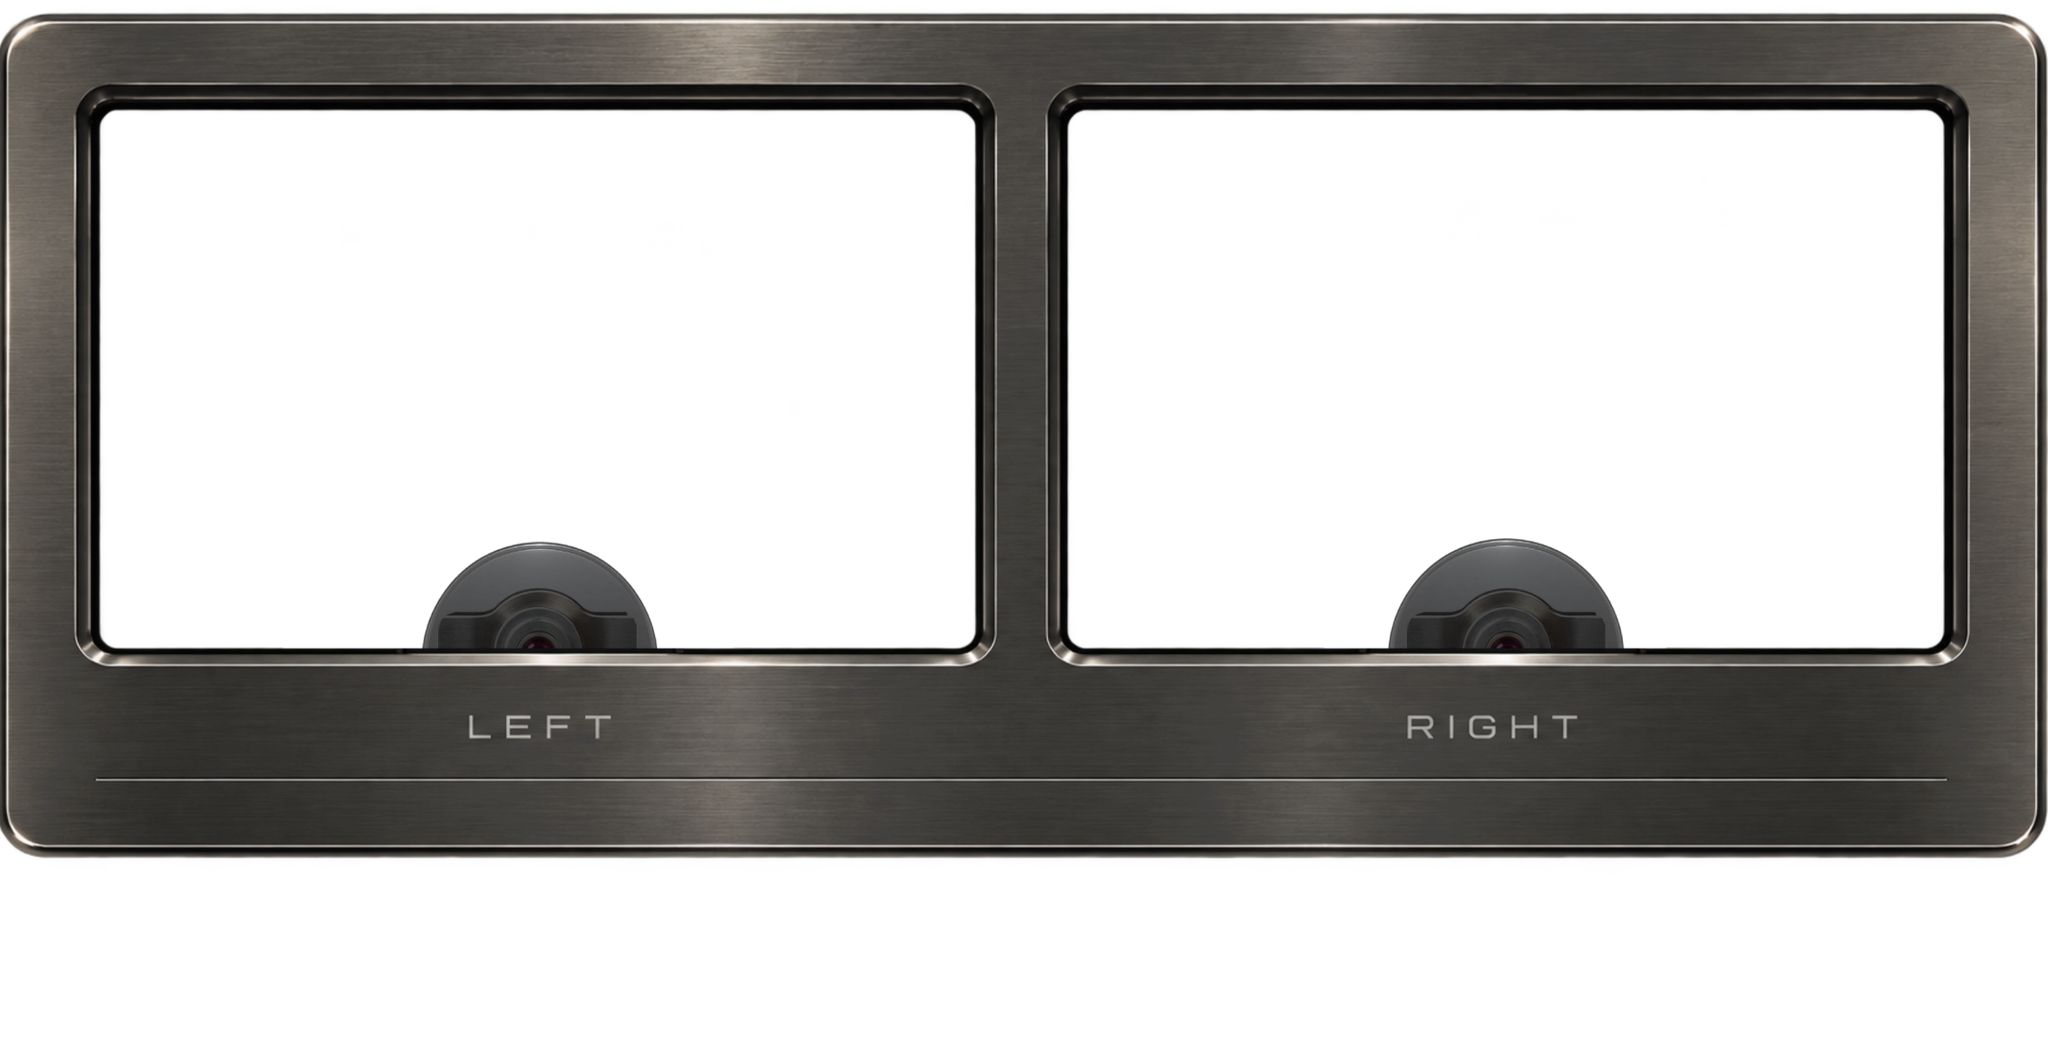
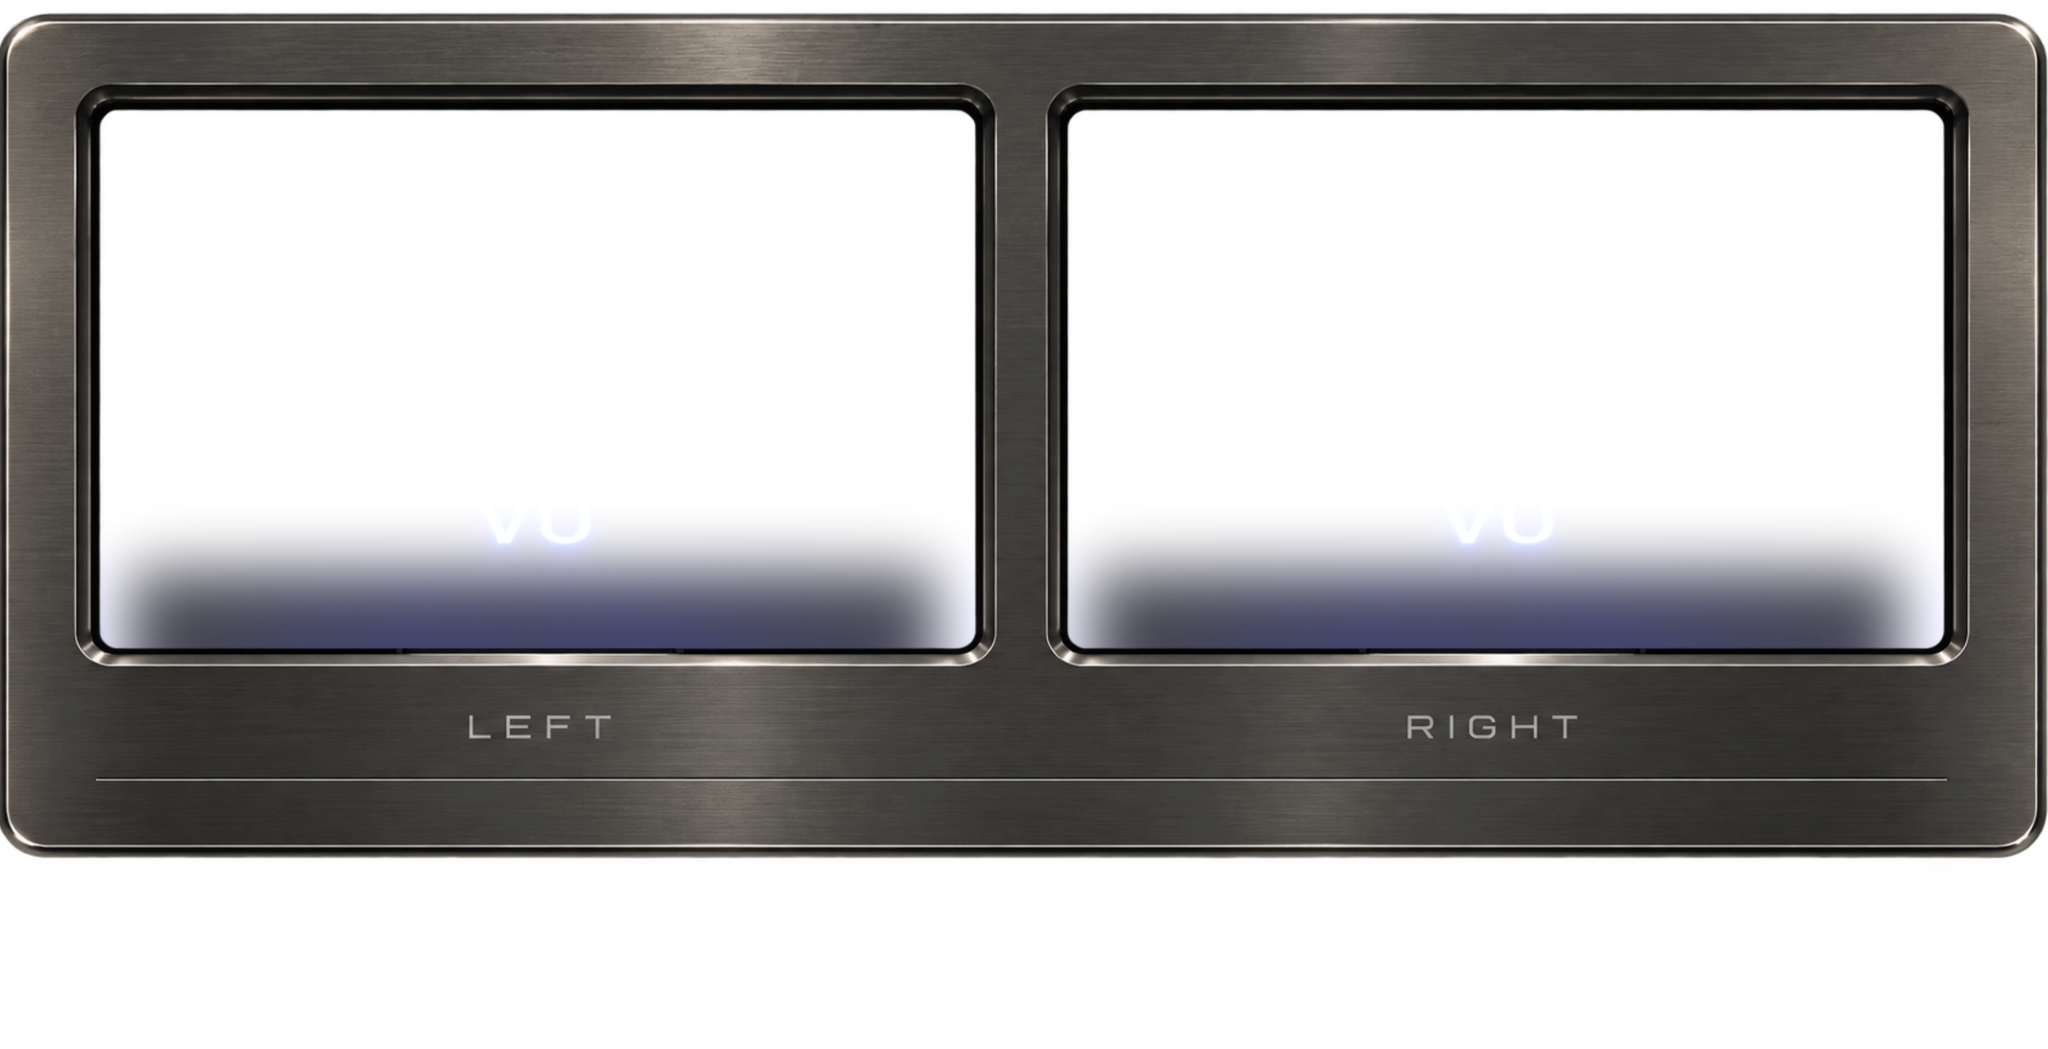
vu store: Titanium v6, a long needle from under the frame, no hub cover
The new drawing drops the hub cover and the coil: the needle now turns on
the centre of the scale arc, hidden behind the lower edge of the frame, so
it follows the ticks exactly from -20 to +3.

Changed region(s): [[0.0312, 0.4881, 0.9688, 0.6406]]

diff --git a/vu-store/README.md b/vu-store/README.md
@@ -38,7 +38,7 @@ pixels):
 | `golden` | VU Golden: under quadranti, over frame | 700,775 / 280..1180 | 34.1,949.77 | 736.58,1229.77 · 2103.58,1231.77 | -34.1,34.3 |
 | `aluminium` | VU Aluminium Style: under quadrante fix, over frame; v2 lancette | 750,830 / 230..1020 | 38.5,1041.91 | 796.59,1271.91 · 2024.46,1275.09 | -34.6,33.0 |
 | `glossy` | VU Glossy: under quadrante, over frame | 650,936 / 347..1170 | 143.0,761.5 | 793.0,1108.5 · 2014.0,1108.5 | -44.15,43.4 |
-| `titanium` | VU Titanium New: under back, over front (2850x1460, v5) | 610,900 / 230..968 | 144.5,674 | 754.5,904 · 2097.5,904 | -48.03,48.21 |
+| `titanium` | VU Titanium New2: under back, over front (2850x1460, v6) | 722,782 / 229..1190 | 30.1,952.7 | 737.4,1181.7 · 2081.4,1181.7 | -33.24,34.87 |
 | `blue-neon` | VU Blue Meta 2: under Back, over Top-2 (2897x1503, v2) | 700,730 / 307..1209 | 14.5,1018.8 | 705.6,1325.8 · 2170.1,1325.7 | -31.40,33.57 |
 
 The v2 Aluminium needle leans slightly in the artwork (tip at x 792, collar
@@ -95,3 +95,11 @@ seen from the coil, halfway along them, and the ticks in between are off by at
 most 1.3 % of full scale. Near either end the coil shows tilted through the
 glass of the hub cover. The empty rows under the frame are kept, as in Blue
 Neon.
+
+Titanium v6 (VU Titanium New2) keeps the same dials and frame but drops the
+hub cover and the coil: a long straight needle comes up from under the frame.
+It turns on the centre of the scale arc (737.4,1181.7), which sits behind the
+opaque lower edge of the frame (rows 915..1195), so the ticks are exactly
+radial and the angles are those of the -20 and +3 ticks seen from there. The
+needle is cut so that its drawn axis (x 752.1) passes through the pivot; its
+dark foot (rows 990..1129) stays behind the frame at any angle.
